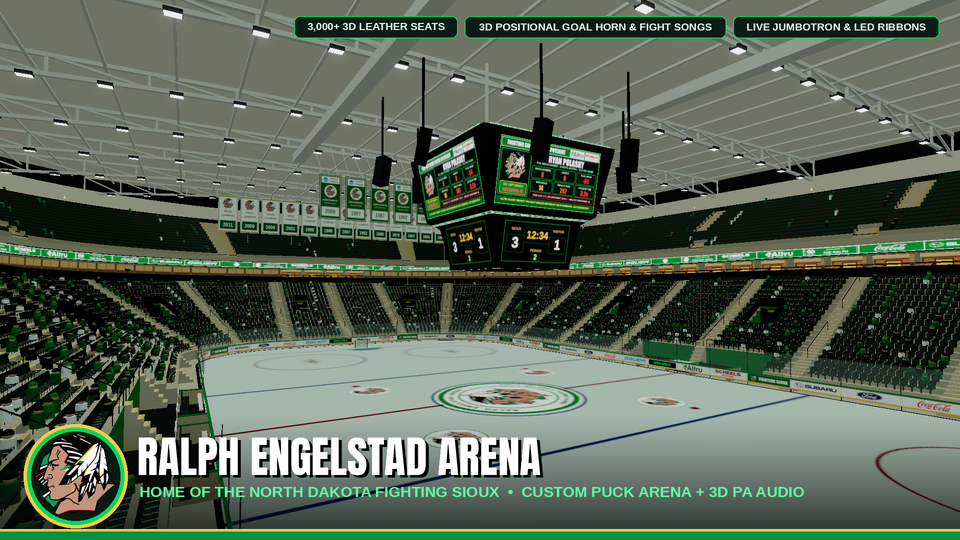
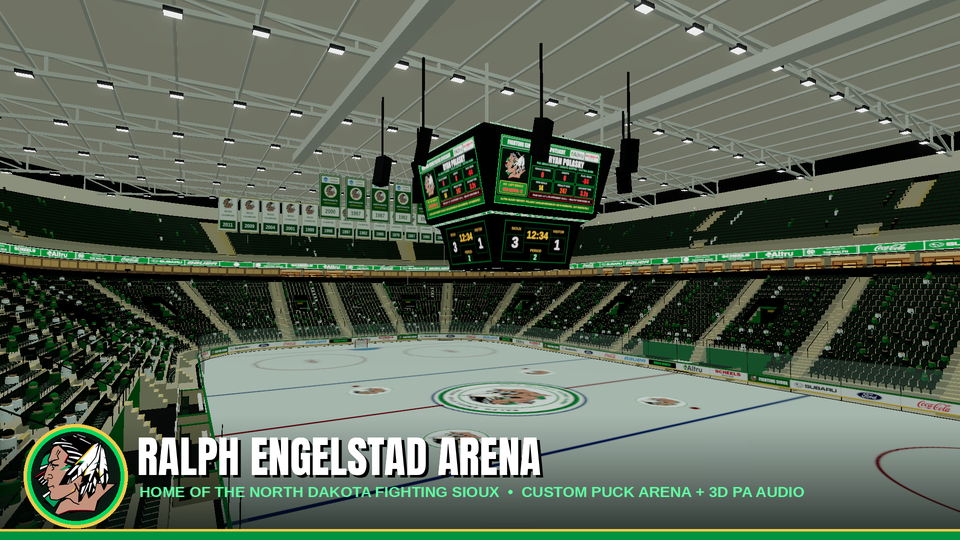
Drop feature pills from hero

Changed region(s): [[0.2812, 0.0296, 1.0, 0.0889]]

diff --git a/compose_hero.py b/compose_hero.py
@@ -14,12 +14,6 @@ LIBERATION_BOLD_CANDIDATES = (
     Path("C:/Windows/Fonts/arialbd.ttf"),
 )
 TITLE_FONT = FONTS / "Anton-Regular.ttf"
-PILL_TEXTS = (
-    "3,000+ 3D LEATHER SEATS",
-    "3D POSITIONAL GOAL HORN & FIGHT SONGS",
-    "LIVE JUMBOTRON & LED RIBBONS",
-)
-PILL_BOXES = ((588, 32, 328, 45), (929, 32, 524, 45), (1466, 32, 413, 45))
 SUBTITLE = "HOME OF THE NORTH DAKOTA FIGHTING SIOUX  •  CUSTOM PUCK ARENA + 3D PA AUDIO"
 
 
@@ -28,22 +22,6 @@ def load_bold_font(size):
         if candidate.is_file():
             return ImageFont.truetype(str(candidate), size)
     raise FileNotFoundError("Install Liberation Sans Bold or Arial Bold to compose the hero.")
-
-
-def draw_centered(draw, text, font, box, fill):
-    x, y, width, height = box
-    bounds = draw.textbbox((0, 0), text, font=font)
-    text_width = bounds[2] - bounds[0]
-    text_height = bounds[3] - bounds[1]
-    draw.text(
-        (
-            x + (width - text_width) / 2 - bounds[0],
-            y + (height - text_height) / 2 - bounds[1],
-        ),
-        text,
-        font=font,
-        fill=fill,
-    )
 
 
 def make_overlay():
@@ -59,17 +37,6 @@ def make_overlay():
         alpha = round(180 * t**1.15)
         shade_draw.line((0, y, 1919, y), fill=(2, 8, 5, alpha))
     overlay.alpha_composite(shade)
-
-    pill_font = load_bold_font(21)
-    for text, (x, y, width, height) in zip(PILL_TEXTS, PILL_BOXES):
-        draw.rounded_rectangle(
-            (x, y, x + width - 1, y + height - 1),
-            radius=12,
-            fill=(10, 28, 19, 255),
-            outline=(0, 215, 95, 255),
-            width=2,
-        )
-        draw_centered(draw, text, pill_font, (x, y, width, height), (240, 255, 245, 255))
 
     center_x, center_y = 151, 952
     draw.ellipse((center_x - 104, center_y - 104, center_x + 104, center_y + 104), fill=(242, 202, 75, 255))
